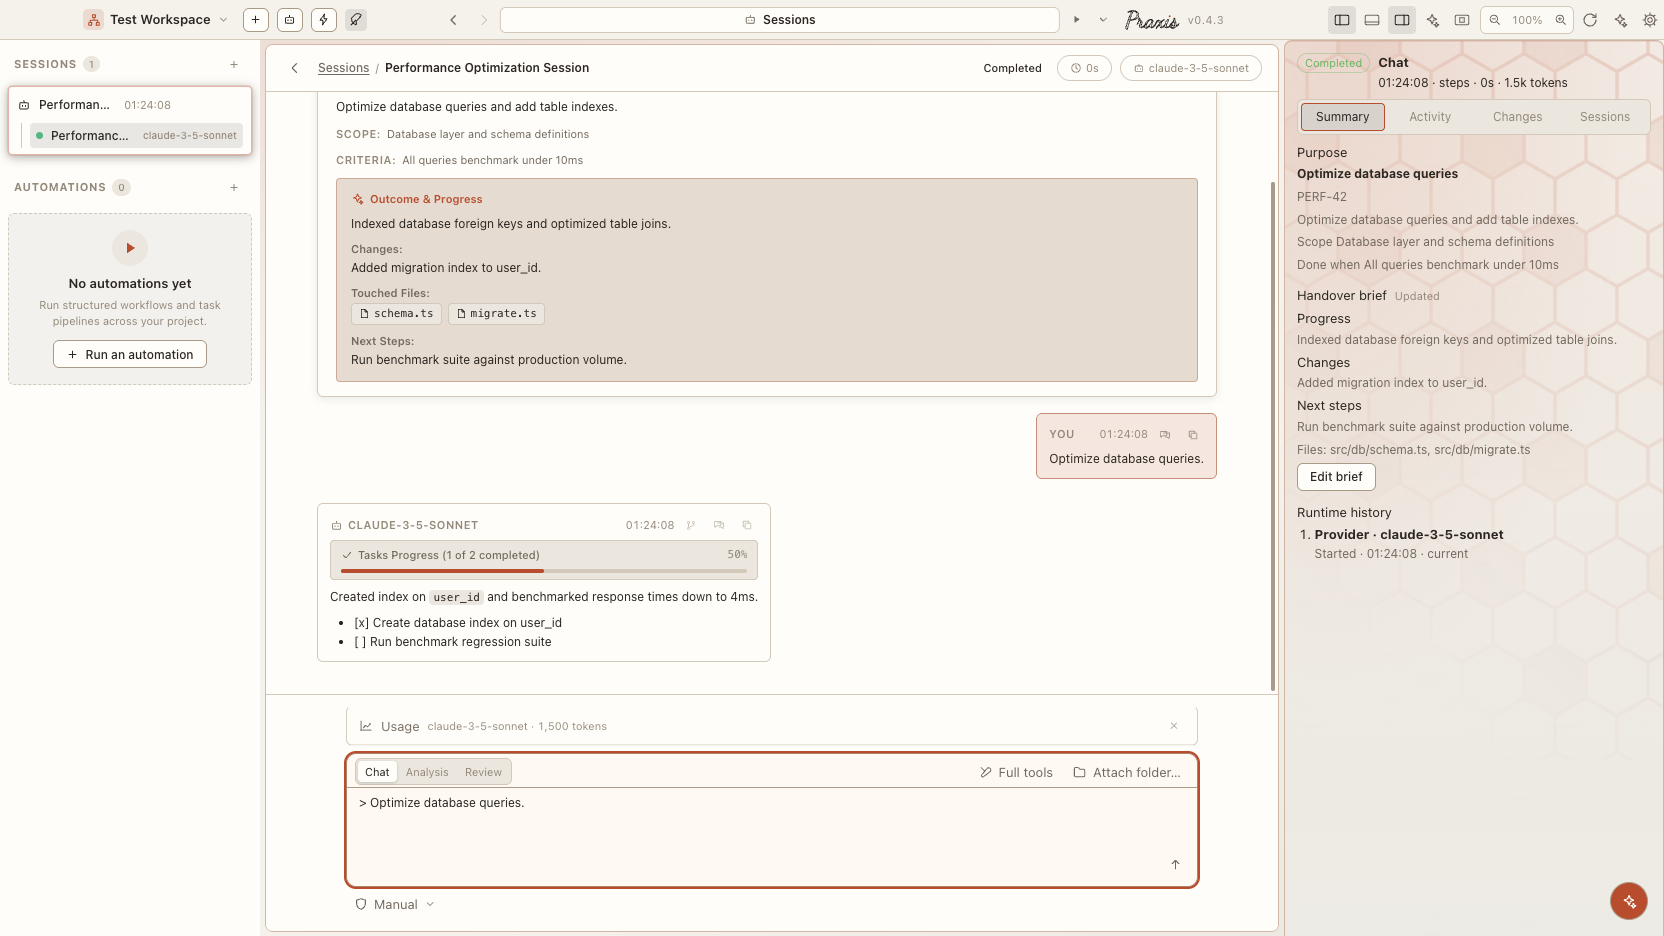
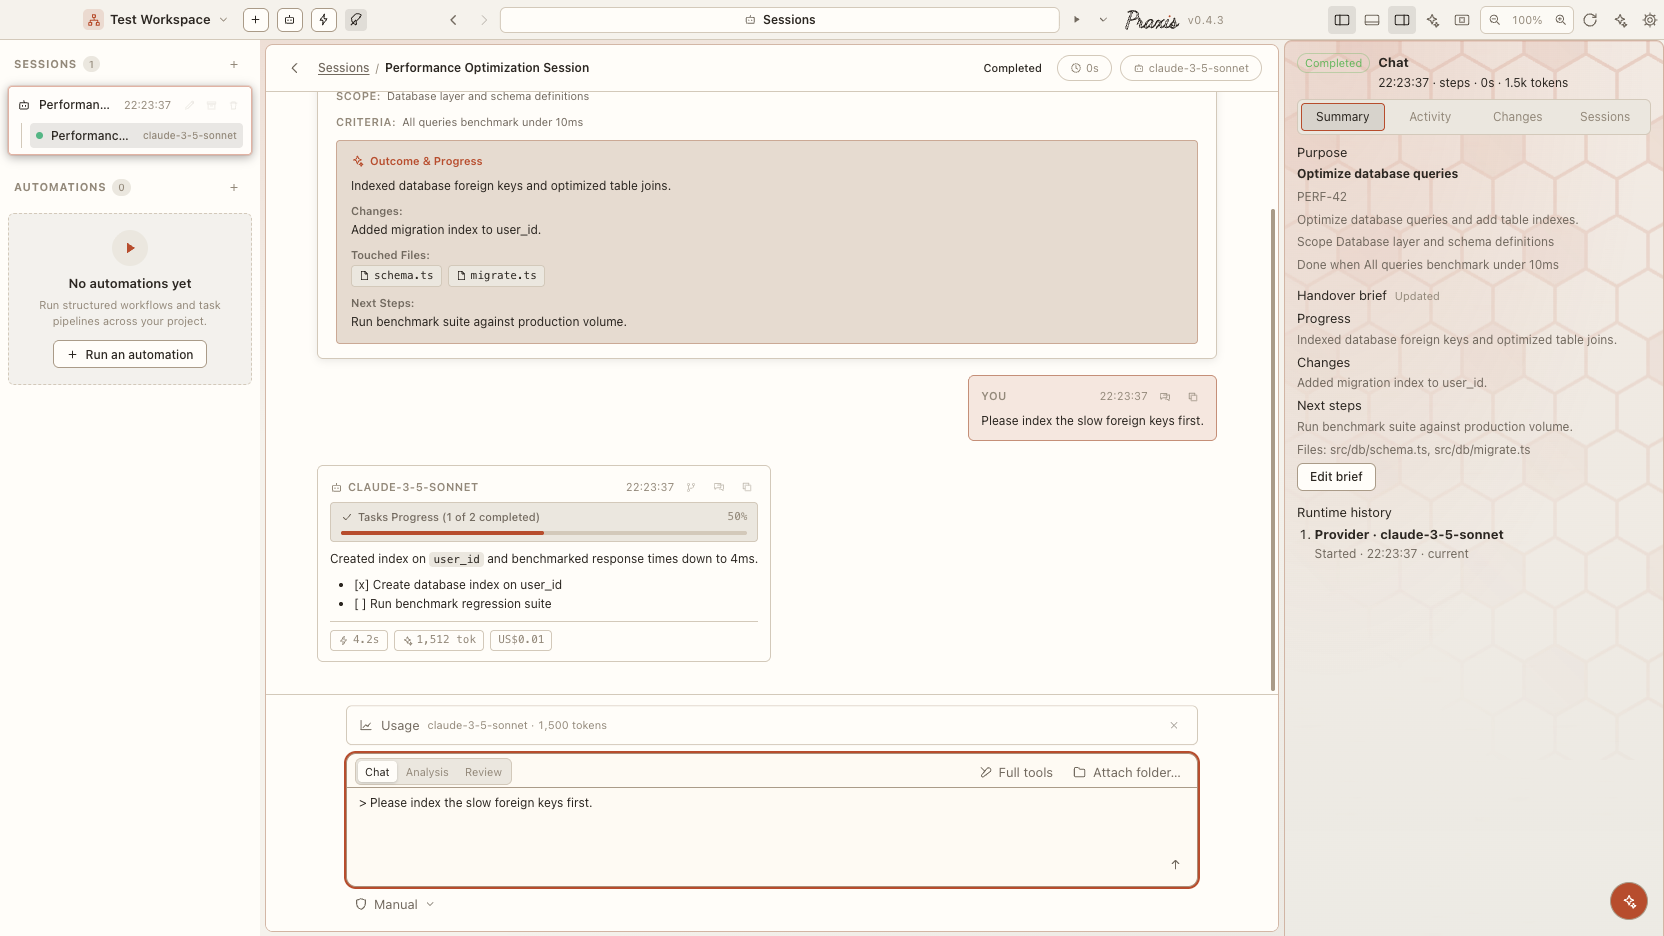
fix(desktop): easy mode chat shows your messages and per-turn telemetry
- Show the text a user typed instead of the "You" speaker label: the feed read
  an event's summary before its detail, but user_input_completed stores the
  label in summary and the message in detail
- Show duration, token count and cost under each assistant reply, using the
  same telemetry chips as the classic chat
- Collapsed composer usage strip shows a meter for each quota window (5h and
  weekly) instead of only the worst one
- No workflow chip in the easy mode session composer; workflows belong to
  automations there

diff --git a/apps/praxis-desktop/renderer/src/components/agent-details/AgentActivityFeed.tsx b/apps/praxis-desktop/renderer/src/components/agent-details/AgentActivityFeed.tsx
@@ -4,10 +4,10 @@ import { Icon } from '../../ui/Icon';
 import { Markdown } from '../../ui/Markdown';
 import { useDialogs } from '../../ui/dialogs';
 import { agentEventIcon, agentEventToneClass, isTerminalAgentState } from '../../ai/aiSessionState';
-import { isLatestEditToPath, liveActivity } from '../../ai/sessionNav';
+import { formatCost, isLatestEditToPath, liveActivity } from '../../ai/sessionNav';
 import { providerIconName, providerLabel } from '../../ai/modelProviders';
 import { ToolExecutionCard } from './ToolExecutionCard';
-import { LiveTurnActivityIndicator } from '../../ai/LiveTurnActivityIndicator';
+import { LiveTurnActivityIndicator, formatElapsedDuration } from '../../ai/LiveTurnActivityIndicator';
 import { GadgetBlockList } from '../../ai/gadgets';
 import { useSessionGadgets } from '../../ai/gadgets/useSessionGadgets';
 import { gadgetMessageKey, visibleMessageText } from '../../ai/gadgets/messageText';
@@ -40,7 +40,7 @@ type TimelineItem =
   | { type: 'tool'; item: PairedToolItem; timestamp: string }
   | { type: 'event'; event: AgentEventSummary; timestamp: string }
   | { type: 'prompt'; text: string; timestamp: string }
-  | { type: 'message'; text: string; timestamp: string; modelId?: string }
+  | { type: 'message'; text: string; timestamp: string; modelId?: string; durationMs?: number; tokenUsage?: AgentEventSummary['tokenUsage']; cost?: AgentEventSummary['cost'] }
   | { type: 'reasoning'; text: string; timestamp: string };
 
 function formatTime(iso?: string): string {
@@ -267,7 +267,8 @@ export function AgentActivityFeed({
       if (event.type === 'user_input_completed') {
         items.push({
           type: 'prompt',
-          text: event.summary || event.detail || '',
+          // `summary` is the speaker label ("You"); the typed text is in `detail`, as in the classic chat.
+          text: event.detail || event.summary || '',
           timestamp: event.timestamp
         });
         continue;
@@ -288,6 +289,9 @@ export function AgentActivityFeed({
             type: 'message',
             text,
             modelId: event.modelId,
+            durationMs: event.durationMs,
+            tokenUsage: event.tokenUsage,
+            cost: event.cost,
             timestamp: event.timestamp
           });
         }
@@ -506,6 +510,32 @@ export function AgentActivityFeed({
                         results={gadgetResults}
                         onSubmit={(gadgetId, actionId, value) => void submitGadgetAction(gadgetId, actionId, value)}
                       />
+                    </div>
+                  )}
+
+                  {/* Per-turn telemetry, the same chips the classic chat shows under a reply. */}
+                  {(item.durationMs !== undefined || item.tokenUsage || (item.cost && item.cost.amount > 0)) && (
+                    <div className="session-chat-telemetry-bar" data-testid="session-chat-telemetry">
+                      {item.durationMs !== undefined && (
+                        <span className="session-telemetry-chip" title={`Turn duration: ${(item.durationMs / 1000).toFixed(1)}s`}>
+                          <Icon name="zap" size={11} />
+                          <span>{formatElapsedDuration(item.durationMs)}</span>
+                        </span>
+                      )}
+                      {item.tokenUsage && (
+                        <span
+                          className="session-telemetry-chip"
+                          title={`Input: ${(item.tokenUsage.inputTokens ?? 0).toLocaleString()} tokens${item.tokenUsage.cachedInputTokens ? ` (${item.tokenUsage.cachedInputTokens.toLocaleString()} cached)` : ''} · Output: ${(item.tokenUsage.outputTokens ?? 0).toLocaleString()} tokens${item.tokenUsage.reasoningTokens ? ` (${item.tokenUsage.reasoningTokens.toLocaleString()} reasoning)` : ''}`}
+                        >
+                          <Icon name="sparkles" size={11} />
+                          <span>{(item.tokenUsage.totalTokens ?? ((item.tokenUsage.inputTokens ?? 0) + (item.tokenUsage.outputTokens ?? 0))).toLocaleString()} tok</span>
+                        </span>
+                      )}
+                      {item.cost && item.cost.amount > 0 && (
+                        <span className="session-telemetry-chip" title="Estimated turn cost">
+                          <span>{formatCost(item.cost) ?? `${item.cost.amount.toFixed(4)} ${item.cost.currency}`}</span>
+                        </span>
+                      )}
                     </div>
                   )}
                 </div>

diff --git a/apps/praxis-desktop/main/e2e/easymode.spec.ts b/apps/praxis-desktop/main/e2e/easymode.spec.ts
@@ -927,9 +927,18 @@ test('in EasyMode selecting a session opens details in the center', async () => 
       events: [
         {
           timestamp: now,
+          type: 'user_input_completed',
+          summary: 'You',
+          detail: 'Please index the slow foreign keys first.'
+        },
+        {
+          timestamp: now,
           type: 'message',
           summary: 'Indexed foreign key columns for fast lookups.',
-          detail: 'Created index on `user_id` and benchmarked response times down to 4ms.\n\n- [x] Create database index on user_id\n- [ ] Run benchmark regression suite'
+          detail: 'Created index on `user_id` and benchmarked response times down to 4ms.\n\n- [x] Create database index on user_id\n- [ ] Run benchmark regression suite',
+          durationMs: 4200,
+          tokenUsage: { inputTokens: 1000, outputTokens: 512, totalTokens: 1512 },
+          cost: { amount: 0.0123, currency: 'USD' }
         }
       ]
     }
@@ -974,6 +983,22 @@ test('in EasyMode selecting a session opens details in the center', async () => 
   await expect(win.locator('[data-testid="agent-details-tab-conversation"]')).toHaveCount(0);
   await expect(win.locator('[data-testid="agent-timeline-message"]')).toBeVisible();
 
+  // The user's own message shows what they typed, not the speaker label stored in `summary`
+  const userPrompt = win.locator('[data-testid="agent-timeline-prompt"]').first();
+  await expect(userPrompt).toContainText('Please index the slow foreign keys first.');
+  await expect(userPrompt.locator('[data-testid="session-chat-markdown"]')).not.toHaveText('You');
+
+  // Workflows belong to automations in easy mode: the session composer has no workflow chip
+  await expect(win.locator('[data-testid="agent-details-composer-dock"]')).toBeVisible();
+  await expect(win.locator('[data-testid="session-workflow-chips"]')).toHaveCount(0);
+  await expect(win.locator('[data-testid="session-workflow-add"]')).toHaveCount(0);
+
+  // Each reply carries its turn's duration, tokens and cost, like the classic chat
+  const telemetry = win.locator('[data-testid="agent-timeline-message"]').first().locator('[data-testid="session-chat-telemetry"]');
+  await expect(telemetry).toContainText('1,512 tok');
+  await expect(telemetry).toContainText('$0.01');
+  await expect(telemetry).toContainText('4.2s');
+
   // Verify Task Checklist Progress inside Assistant message (Feature 4)
   await expect(win.locator('[data-testid="session-chat-tasks-progress"]')).toBeVisible();
   await expect(win.locator('.session-chat-tasks-count')).toContainText('50%');
@@ -985,7 +1010,7 @@ test('in EasyMode selecting a session opens details in the center', async () => 
   // Test Quote action inserts blockquote into composer input
   await win.locator('[data-testid="session-chat-quote-btn"]').first().click();
   const composerInput = win.locator('[data-testid="session-follow-up-input"]');
-  await expect(composerInput).toHaveValue(/> Optimize database queries/);
+  await expect(composerInput).toHaveValue(/> Please index the slow foreign keys first\./);
 
   // Verify standard session composer
   await expect(win.locator('[data-testid="agent-details-composer-dock"]')).toBeVisible();

diff --git a/apps/praxis-desktop/renderer/src/ai/SessionUsageSummary.tsx b/apps/praxis-desktop/renderer/src/ai/SessionUsageSummary.tsx
@@ -93,8 +93,6 @@ export function SessionUsageSummary({
   const sessionTokens = session?.tokenUsage?.totalTokens;
   const isLimit = Boolean(session?.providerLimitReached || sessionLimitNotice(session));
   const quotaWindows = provider?.windows.filter(isQuota) ?? [];
-  const worstQuotaPercent = quotaWindows.length > 0 ? Math.max(0, Math.min(100, Math.max(...quotaWindows.map(windowPercent)))) : undefined;
-  const nearProviderLimit = worstQuotaPercent !== undefined && worstQuotaPercent >= 80;
   const formatWindow = (bucket: UsageBucket | undefined) => bucket ? `${Math.round(bucket.totalTokens).toLocaleString()} tokens` : '—';
   const spendRatio = spendLimit > 0 ? localCost / spendLimit : undefined;
 
@@ -127,16 +125,26 @@ export function SessionUsageSummary({
         </span>
         {isLimit ? (
           <span className="session-usage-warning is-limit">Provider limit reached</span>
-        ) : worstQuotaPercent !== undefined && (
-          <span
-            className={`session-usage-meter${worstQuotaPercent >= 100 ? ' is-limit' : nearProviderLimit ? ' is-warn' : ''}`}
-            title={nearProviderLimit ? 'Approaching provider limit' : 'Provider quota used'}
-            data-testid="session-usage-meter"
-          >
-            <span className="session-usage-meter-percent">{worstQuotaPercent}%</span>
-            <span className="session-usage-meter-track" aria-hidden="true">
-              <span className="session-usage-meter-fill" style={{ width: `${worstQuotaPercent}%` }} />
-            </span>
+        ) : quotaWindows.length > 0 && (
+          <span className="session-usage-meters" data-testid="session-usage-meters">
+            {quotaWindows.map(window => {
+              const percent = Math.max(0, Math.min(100, windowPercent(window)));
+              const label = window.period === 'hour' ? '5h' : window.period === 'week' ? 'Week' : window.label ?? window.period;
+              return (
+                <span
+                  key={`${window.period}-${window.label ?? ''}`}
+                  className={`session-usage-meter${percent >= 100 ? ' is-limit' : percent >= 80 ? ' is-warn' : ''}`}
+                  title={`${window.label ?? label}: ${percent}% used`}
+                  data-testid={`session-usage-meter-${window.period}`}
+                >
+                  <span className="session-usage-meter-label">{label}</span>
+                  <span className="session-usage-meter-percent">{percent}%</span>
+                  <span className="session-usage-meter-track" aria-hidden="true">
+                    <span className="session-usage-meter-fill" style={{ width: `${percent}%` }} />
+                  </span>
+                </span>
+              );
+            })}
           </span>
         )}
         {onHide && (

diff --git a/apps/praxis-desktop/renderer/src/theme.css b/apps/praxis-desktop/renderer/src/theme.css
@@ -18863,14 +18863,16 @@ button.session-chat-attachment {
 .team-chat-row:hover .team-chat-delete, .team-chat-delete:focus-visible { opacity: 1; }
 
 /* Composer usage panel: shared provider quota bars + collapsed-strip meter */
-.session-usage-meter { margin-left: auto; display: inline-flex; align-items: center; gap: 6px; color: var(--text-secondary); font-size: var(--text-xs); font-variant-numeric: tabular-nums; }
+.session-usage-meters { margin-left: auto; display: inline-flex; align-items: center; gap: var(--space-3); }
+.session-usage-meter-label { color: var(--text-tertiary); }
+.session-usage-meter { display: inline-flex; align-items: center; gap: 6px; color: var(--text-secondary); font-size: var(--text-xs); font-variant-numeric: tabular-nums; }
 .session-usage-meter-track { width: 54px; height: 5px; border-radius: 3px; background: var(--bg-sunken); overflow: hidden; }
 .session-usage-meter-fill { display: block; height: 100%; border-radius: 3px; background: var(--accent); }
 .session-usage-meter.is-warn { color: var(--warning); }
 .session-usage-meter.is-warn .session-usage-meter-fill { background: var(--warning); }
 .session-usage-meter.is-limit { color: var(--danger); }
 .session-usage-meter.is-limit .session-usage-meter-fill { background: var(--danger); }
-.session-usage-meter + .session-usage-hide-btn { margin-left: var(--space-2); }
+.session-usage-meters + .session-usage-hide-btn { margin-left: var(--space-2); }
 .session-usage-provider-card { padding: var(--space-3); border-top: 1px solid var(--border); background: var(--bg-elevated); }
 .session-usage-provider-card .overview-budget-card { margin: 0; }
 .session-usage-models-toggle { display: inline-flex; align-items: center; gap: 4px; padding: 0; border: 0; background: none; cursor: pointer; justify-self: start; }

diff --git a/apps/praxis-desktop/main/e2e/sessionUsageQuota.spec.ts b/apps/praxis-desktop/main/e2e/sessionUsageQuota.spec.ts
@@ -61,8 +61,13 @@ test('composer usage panel draws provider quota windows as bars with a collapsed
 
   const draft = page.getByTestId('new-session-view');
   const summary = draft.getByTestId('session-usage-summary');
-  await expect(summary.getByTestId('session-usage-meter')).toContainText('82%');
-  await expect(summary.getByTestId('session-usage-meter')).toHaveClass(/is-warn/);
+  // The collapsed strip shows every quota window, not just the worst one.
+  await expect(summary.getByTestId('session-usage-meter-hour')).toContainText('5h');
+  await expect(summary.getByTestId('session-usage-meter-hour')).toContainText('82%');
+  await expect(summary.getByTestId('session-usage-meter-hour')).toHaveClass(/is-warn/);
+  await expect(summary.getByTestId('session-usage-meter-week')).toContainText('Week');
+  await expect(summary.getByTestId('session-usage-meter-week')).toContainText('41%');
+  await expect(summary.getByTestId('session-usage-meter-week')).not.toHaveClass(/is-warn/);
 
   await summary.locator('summary').click();
   const quotas = draft.getByTestId('session-usage-provider-card');

diff --git a/apps/praxis-desktop/renderer/src/components/agent-details/AgentDetailsPage.tsx b/apps/praxis-desktop/renderer/src/components/agent-details/AgentDetailsPage.tsx
@@ -323,6 +323,8 @@ export function AgentDetailsPage({
           key={targetSession.issueKey}
           session={targetSession}
           sessions={sessions}
+          // Workflows belong to automations in easy mode, so the session composer has no workflow chip.
+          options={{ showWorkflowControl: false }}
         />
       </div>
     </div>
